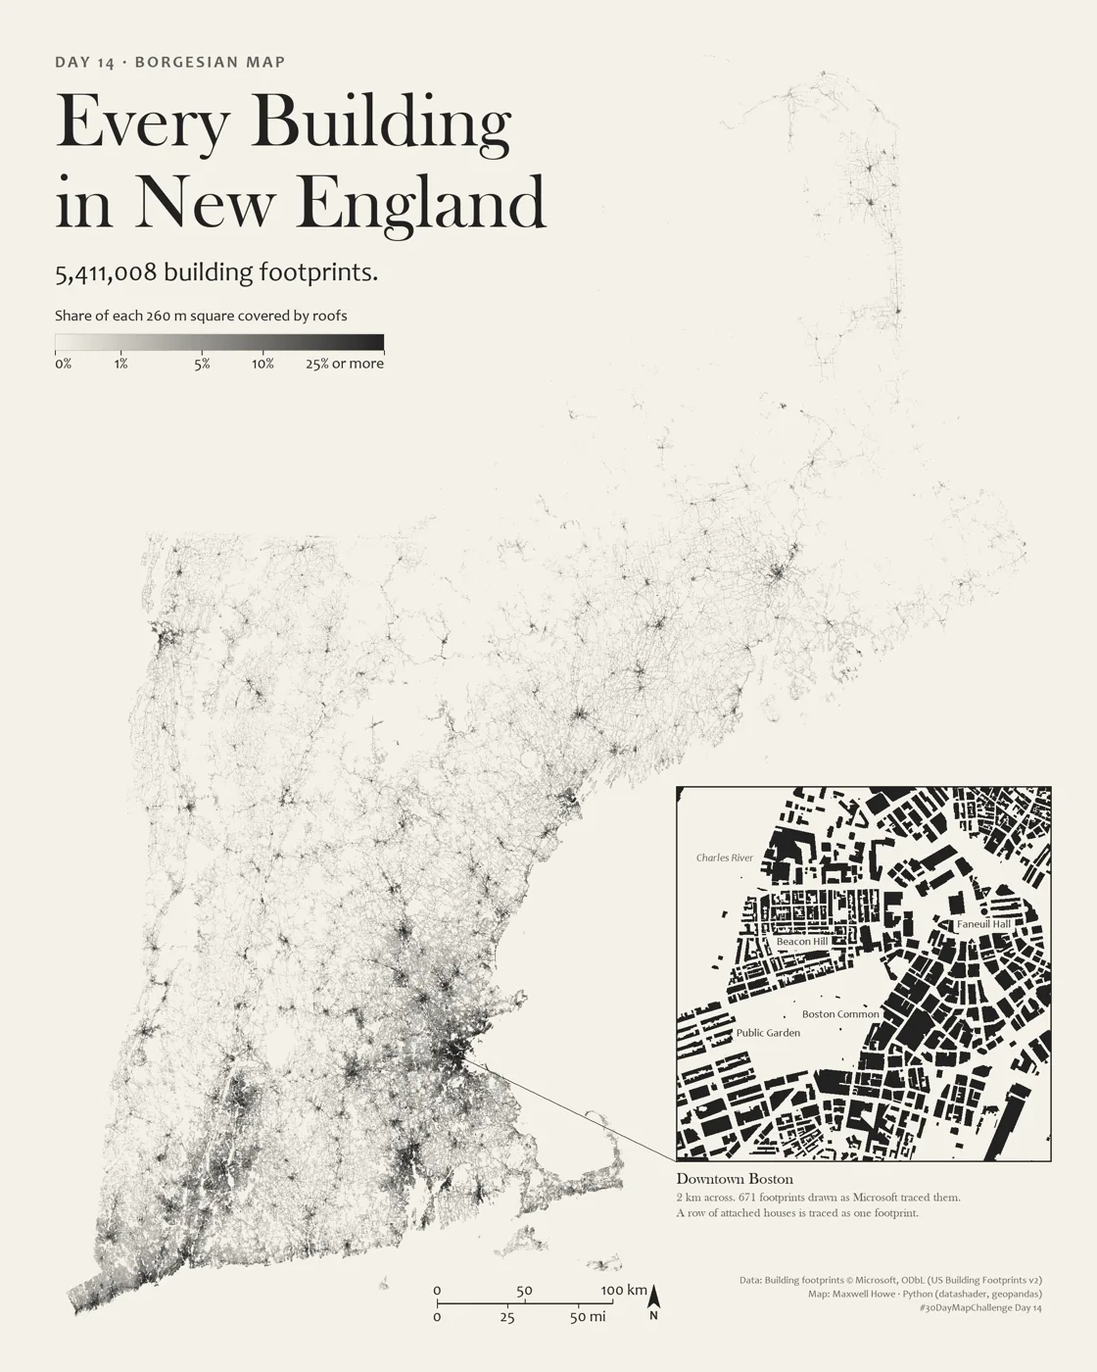
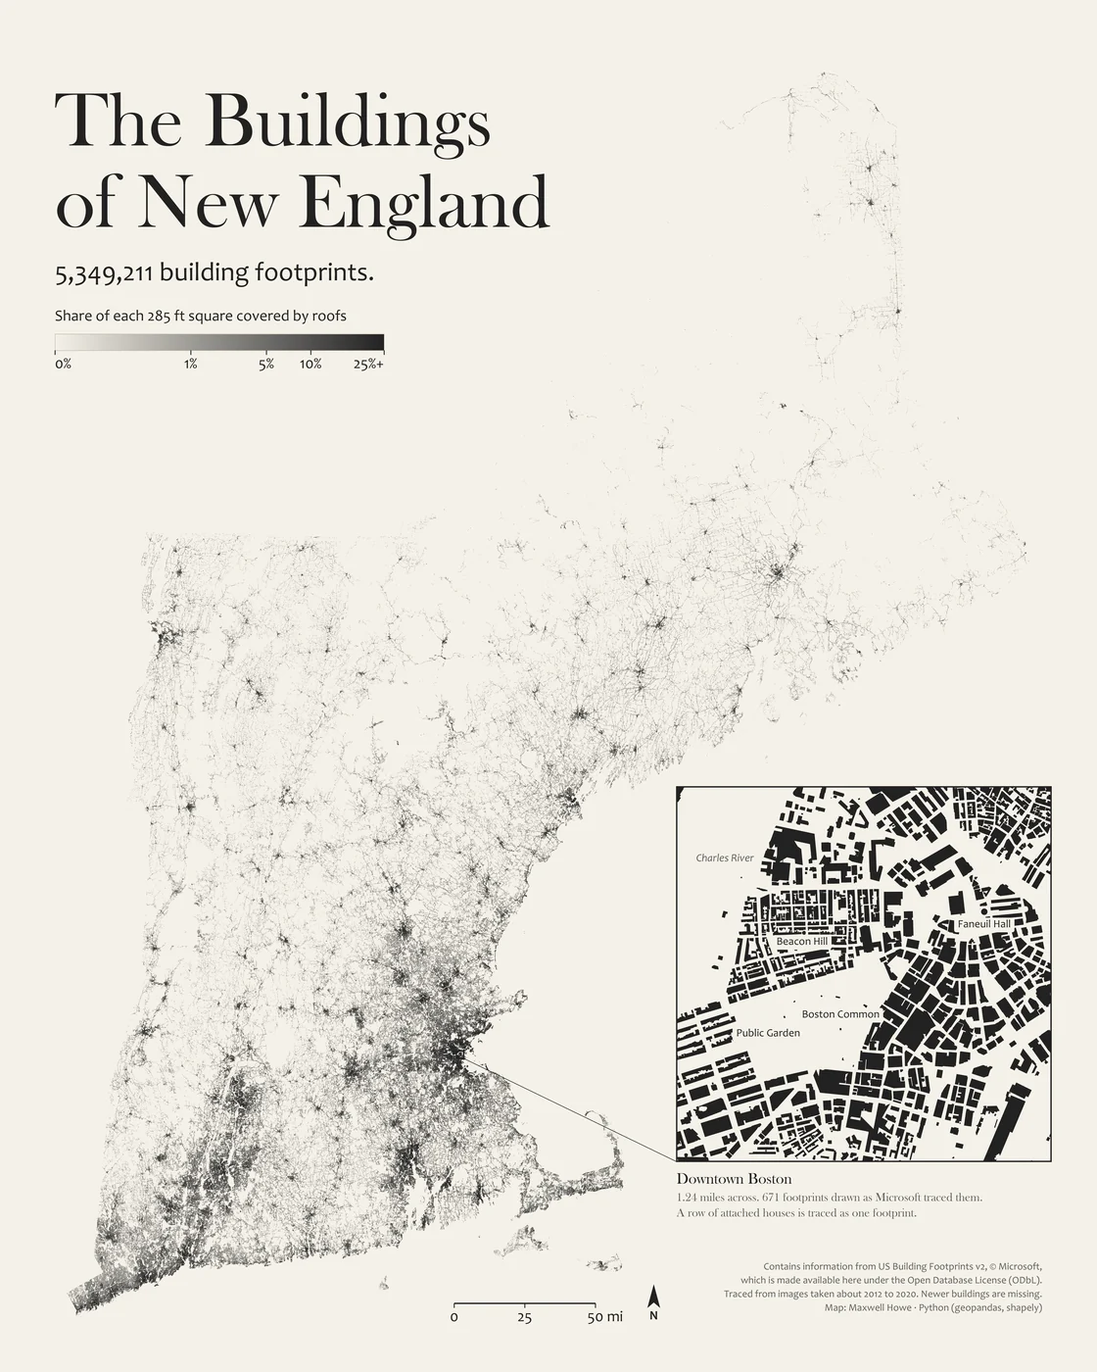
30 Day Maps: use the print versions of days 2, 3, 8, 14 and 21, add day 24

diff --git a/src/portfolio/maps.html b/src/portfolio/maps.html
@@ -4,7 +4,7 @@
     <meta charset="UTF-8">
     <meta name="viewport" content="width=device-width, initial-scale=1.0">
     <title>30 Day Map Challenge 2026 — Maxwell Howe</title>
-    <meta name="description" content="Maxwell Howe’s maps for the 2026 30 Day Map Challenge: lighthouses, rivers, town charters, shipwrecks, foliage, railroads, pizza, a fantasy T map, traffic lights, sunsets, the drowned Quabbin towns, cows, snowfall, street names, and place names across New England.">
+    <meta name="description" content="Maxwell Howe’s maps for the 2026 30 Day Map Challenge: lighthouses, rivers, town charters, shipwrecks, foliage, railroads, pizza, a fantasy T map, traffic lights, sunsets, the drowned Quabbin towns, cows, snowfall, street names, drive times, and place names across New England.">
     <link rel="icon" href="favicon.svg" type="image/svg+xml">
     <link rel="icon" href="/favicon.ico" sizes="32x32">
     <link rel="apple-touch-icon" href="/apple-touch-icon.png">
@@ -28,7 +28,7 @@
         <header class="page-head">
             <div class="kicker">November 2026 · in progress</div>
             <h1>30 Day Map Challenge</h1>
-            <p class="lede">One map a day for November, each on a set theme. I’m keeping mine in New England. 19 of 30 are finished as of November 20, and I skipped Days 10 and 16. Click any map for the full-size version.</p>
+            <p class="lede">One map a day for November, each on a set theme. I’m keeping mine in New England. 20 of 30 are on this page, and I skipped Days 10 and 16. Click any map for the full-size version.</p>
             <hr class="tick-rule">
         </header>
 
@@ -58,7 +58,7 @@
                 <li><a class="day-cell" href="#day-21"><b>21</b>OpenStreetMap</a></li>
                 <li><span class="day-cell"><b>22</b>Projections</span></li>
                 <li><span class="day-cell"><b>23</b>Senses: Taste</span></li>
-                <li><span class="day-cell"><b>24</b>Network</span></li>
+                <li><a class="day-cell" href="#day-24"><b>24</b>Network</a></li>
                 <li><span class="day-cell"><b>25</b>Is this a map?</span></li>
                 <li><span class="day-cell"><b>26</b>Water</span></li>
                 <li><span class="day-cell"><b>27</b>New tool</span></li>
@@ -80,8 +80,8 @@
             <div class="kicker">Day 2 · Lines</div>
             <h2>New England’s Rivers and Where They Drain</h2>
             <figure><a href="/images/30-day-maps/day02-full.webp"><img src="/images/30-day-maps/day02.webp" alt="Map: New England’s Rivers and Where They Drain" loading="lazy" decoding="async"></a></figure>
-            <p>Every stream of Strahler order 3 and up, colored by the river system it belongs to. The 12 biggest networks get a color each, and about 130 small coastal streams share one pale blue. Line width follows stream order. The Saint John and Champlain networks cross into Canada before they reach the sea.</p>
-            <p class="map-credit">Data: NHDPlus V2.1 (U.S. EPA and USGS), Terrain Tiles, Natural Earth, US Census Bureau<br>Made with: RustGIS, Python, Illustrator</p>
+            <p>Every stream of Strahler order 3 and up, colored by the river system it belongs to. The biggest networks get a color each, and everything else that reaches the Atlantic, the Hudson included, shares one pale blue. Line width follows stream order. The Saint John, Champlain and St. Francis networks cross into Canada before they reach the sea.</p>
+            <p class="map-credit">Data: NHDPlus V2.1 (U.S. EPA and USGS), Terrain Tiles, Natural Earth, US Census Bureau, OpenStreetMap contributors (ODbL)<br>Made with: RustGIS, Python, Illustrator</p>
         </article>
 
         <article class="map-entry" id="day-03">
@@ -89,7 +89,7 @@
             <h2>New England’s Towns and the Year Each Began</h2>
             <figure><a href="/images/30-day-maps/day03-full.webp"><img src="/images/30-day-maps/day03.webp" alt="Map: New England’s Towns and the Year Each Began" loading="lazy" decoding="async"></a></figure>
             <p>1,522 towns and cities colored by the year each was first chartered or incorporated. Blue towns came before the Revolution and red ones after. Gold is 1760 to 1789, when most of Vermont was chartered. The 81 grey areas are townships and gores that never incorporated. A commenter caught Providence showing its 1832 city charter, so I checked every date against a second source and fixed the ones using the wrong definition.</p>
-            <p class="map-credit">Data: US Census TIGER/Line 2025, Wikipedia municipality lists (CC BY-SA), Vermont charter records<br>Made with: Python, Illustrator</p>
+            <p class="map-credit">Data: US Census TIGER/Line 2025, Wikipedia municipality lists (CC BY-SA), Vermont charter records, OpenStreetMap contributors (ODbL)<br>Made with: Python, Illustrator</p>
         </article>
 
         <article class="map-entry" id="day-04">
@@ -128,8 +128,8 @@
             <div class="kicker">Day 8 · Utopia</div>
             <h2>Boston’s Rapid Transit</h2>
             <figure><a href="/images/30-day-maps/day08-full.webp"><img src="/images/30-day-maps/day08.webp" alt="Map: Boston’s Rapid Transit" loading="lazy" decoding="async"></a></figure>
-            <p>My fantasy Boston subway map, drawn like the posters on station walls. A four-track tunnel I call The BIGGER Dig joins North Station and South Station at a new Boston Central. The map has 8 rapid transit lines, 227 stops, 11 commuter rail lines and 14 ferry routes, about 140 new miles in all. My rough total is $125 billion, five times what the original Big Dig cost in 2026 dollars. It is a fan map and has nothing to do with the MBTA.</p>
-            <p class="map-credit">Data: MBTA V3 API, OpenStreetMap contributors (ODbL), US Census TIGER/Line<br>Made with: Python (matplotlib, geopandas), Illustrator</p>
+            <p>My fantasy Boston subway map, drawn like the posters on station walls. A four-track tunnel I call The BIGGER Dig joins North Station and South Station at a new Boston Central. The map has 8 rapid transit lines, more than 220 stops, 11 commuter rail lines and 14 ferry routes. NERTA is an agency I made up. This is a fan map and has nothing to do with the MBTA.</p>
+            <p class="map-credit">Data: MBTA V3 API, OpenStreetMap contributors (ODbL), US Census TIGER/Line<br>Made with: Python (matplotlib, geopandas)</p>
         </article>
 
         <article class="map-entry portrait" id="day-09">
@@ -166,10 +166,10 @@
 
         <article class="map-entry portrait" id="day-14">
             <div class="kicker">Day 14 · Borgesian map</div>
-            <h2>Every Building in New England</h2>
-            <figure><a href="/images/30-day-maps/day14-full.webp"><img src="/images/30-day-maps/day14.webp" alt="Map: Every Building in New England" loading="lazy" decoding="async"></a></figure>
-            <p>5,411,008 building footprints, and all of them are on the page. Each 260 meter square is shaded by the share of it covered by roofs. The inset is downtown Boston at full detail. The theme comes from Borges’s one-paragraph story about a map drawn at the same size as the empire.</p>
-            <p class="map-credit">Data: Building footprints © Microsoft (ODbL)<br>Made with: Python (datashader, geopandas)</p>
+            <h2>The Buildings of New England</h2>
+            <figure><a href="/images/30-day-maps/day14-full.webp"><img src="/images/30-day-maps/day14.webp" alt="Map: The Buildings of New England" loading="lazy" decoding="async"></a></figure>
+            <p>5,349,211 building footprints. Each 285-foot square is shaded by the share of it covered by roofs. They were traced from images taken about 2012 to 2020, so newer buildings are missing. An earlier version said 5,411,008, which counted some buildings twice and a few thousand outside New England. The inset is downtown Boston at full detail. The theme comes from Borges’s one-paragraph story about a map drawn at the same size as the empire.</p>
+            <p class="map-credit">Data: US Building Footprints v2 © Microsoft (ODbL)<br>Made with: Python (geopandas, shapely)</p>
         </article>
 
         <article class="map-entry portrait" id="day-15">
@@ -216,8 +216,16 @@
             <div class="kicker">Day 21 · OpenStreetMap</div>
             <h2>Every Street Suffix in New England</h2>
             <figure><a href="/images/30-day-maps/day21-full.webp"><img src="/images/30-day-maps/day21.webp" alt="Poster: Every Street Suffix in New England, with a box chart of street endings, a state-by-state table, and ten unusual towns" loading="lazy" decoding="async"></a></figure>
-            <p>All 338,291 named streets in New England’s OpenStreetMap, sorted by the last word of the name. Road is first with 99,329, then Street, Lane, Drive, Way and Avenue, which together make up 87% of them. The rest is the fun part: 37 streets end in Rotary, 36 of them in Massachusetts, and at least 342 Maine streets are still named Fire Road plus a number. Counts are checked against the US Census Bureau’s 2024 road list.</p>
-            <p class="map-credit">Data: OpenStreetMap contributors (ODbL), extract of November 17, 2026; US Census Bureau TIGER/Line 2024<br>Made with: Python (pyosmium, geopandas, matplotlib)</p>
+            <p>All 345,768 named streets in New England’s OpenStreetMap, sorted by the last word of the name. Road is first with 102,515, then Street, Lane, Drive, Avenue and Way, which together make up 86% of them. The rest is the fun part: 49 streets end in Rotary, 48 of them in Massachusetts, and at least 371 Maine streets are still named Fire Road plus a number. Counts are checked against the US Census Bureau’s 2024 road list.</p>
+            <p class="map-credit">Data: OpenStreetMap contributors (ODbL), extract of November 17, 2026; US Census Bureau TIGER/Line 2024; NH Department of Transportation<br>Made with: Python (pyosmium, geopandas, matplotlib)</p>
+        </article>
+
+        <article class="map-entry portrait" id="day-24">
+            <div class="kicker">Day 24 · Network</div>
+            <h2>Drive Time from Boston</h2>
+            <figure><a href="/images/30-day-maps/day24-full.webp"><img src="/images/30-day-maps/day24.webp" alt="Map: Drive Time from Boston" loading="lazy" decoding="async"></a></figure>
+            <p>How long it takes to drive from the Massachusetts State House to every part of New England, with no traffic. One color for every 15 minutes, and 66 cities and towns listed in order. Provincetown (2 h 23) is a longer drive than Portland, Maine (1 h 49). Madawaska, Maine is 7 h 23. The listed times were compared with a second routing engine, which puts 26 of 67 in a different 15-minute band, so read them as estimates.</p>
+            <p class="map-credit">Data: OpenStreetMap contributors (ODbL), US Census Bureau, Natural Earth<br>Made with: Python (geopandas, matplotlib), OSRM, Valhalla</p>
         </article>
 
         <section class="section-tight">

diff --git a/30-day-maps/index.html b/30-day-maps/index.html
@@ -39,7 +39,7 @@
         <header class="page-head">
             <div class="kicker">November 2026 · in progress</div>
             <h1>30 Day Map Challenge</h1>
-            <p class="lede">One map a day for November, each on a set theme. I’m keeping mine in New England. 19 of 30 are finished as of November 20, and I skipped Days 10 and 16. Click any map for the full-size version.</p>
+            <p class="lede">One map a day for November, each on a set theme. I’m keeping mine in New England. 20 of 30 are on this page, and I skipped Days 10 and 16. Click any map for the full-size version.</p>
             <hr class="tick-rule">
         </header>
 
@@ -69,7 +69,7 @@
                 <li><a class="day-cell" href="#day-21"><b>21</b>OpenStreetMap</a></li>
                 <li><span class="day-cell"><b>22</b>Projections</span></li>
                 <li><span class="day-cell"><b>23</b>Senses: Taste</span></li>
-                <li><span class="day-cell"><b>24</b>Network</span></li>
+                <li><a class="day-cell" href="#day-24"><b>24</b>Network</a></li>
                 <li><span class="day-cell"><b>25</b>Is this a map?</span></li>
                 <li><span class="day-cell"><b>26</b>Water</span></li>
                 <li><span class="day-cell"><b>27</b>New tool</span></li>
@@ -91,8 +91,8 @@
             <div class="kicker">Day 2 · Lines</div>
             <h2>New England’s Rivers and Where They Drain</h2>
             <figure><a href="/images/30-day-maps/day02-full.webp"><img src="/images/30-day-maps/day02.webp" alt="Map: New England’s Rivers and Where They Drain" loading="lazy" decoding="async"></a></figure>
-            <p>Every stream of Strahler order 3 and up, colored by the river system it belongs to. The 12 biggest networks get a color each, and about 130 small coastal streams share one pale blue. Line width follows stream order. The Saint John and Champlain networks cross into Canada before they reach the sea.</p>
-            <p class="map-credit">Data: NHDPlus V2.1 (U.S. EPA and USGS), Terrain Tiles, Natural Earth, US Census Bureau<br>Made with: RustGIS, Python, Illustrator</p>
+            <p>Every stream of Strahler order 3 and up, colored by the river system it belongs to. The biggest networks get a color each, and everything else that reaches the Atlantic, the Hudson included, shares one pale blue. Line width follows stream order. The Saint John, Champlain and St. Francis networks cross into Canada before they reach the sea.</p>
+            <p class="map-credit">Data: NHDPlus V2.1 (U.S. EPA and USGS), Terrain Tiles, Natural Earth, US Census Bureau, OpenStreetMap contributors (ODbL)<br>Made with: RustGIS, Python, Illustrator</p>
         </article>
 
         <article class="map-entry" id="day-03">
@@ -100,7 +100,7 @@
             <h2>New England’s Towns and the Year Each Began</h2>
             <figure><a href="/images/30-day-maps/day03-full.webp"><img src="/images/30-day-maps/day03.webp" alt="Map: New England’s Towns and the Year Each Began" loading="lazy" decoding="async"></a></figure>
             <p>1,522 towns and cities colored by the year each was first chartered or incorporated. Blue towns came before the Revolution and red ones after. Gold is 1760 to 1789, when most of Vermont was chartered. The 81 grey areas are townships and gores that never incorporated. A commenter caught Providence showing its 1832 city charter, so I checked every date against a second source and fixed the ones using the wrong definition.</p>
-            <p class="map-credit">Data: US Census TIGER/Line 2025, Wikipedia municipality lists (CC BY-SA), Vermont charter records<br>Made with: Python, Illustrator</p>
+            <p class="map-credit">Data: US Census TIGER/Line 2025, Wikipedia municipality lists (CC BY-SA), Vermont charter records, OpenStreetMap contributors (ODbL)<br>Made with: Python, Illustrator</p>
         </article>
 
         <article class="map-entry" id="day-04">
@@ -139,8 +139,8 @@
             <div class="kicker">Day 8 · Utopia</div>
             <h2>Boston’s Rapid Transit</h2>
             <figure><a href="/images/30-day-maps/day08-full.webp"><img src="/images/30-day-maps/day08.webp" alt="Map: Boston’s Rapid Transit" loading="lazy" decoding="async"></a></figure>
-            <p>My fantasy Boston subway map, drawn like the posters on station walls. A four-track tunnel I call The BIGGER Dig joins North Station and South Station at a new Boston Central. The map has 8 rapid transit lines, 227 stops, 11 commuter rail lines and 14 ferry routes, about 140 new miles in all. My rough total is $125 billion, five times what the original Big Dig cost in 2026 dollars. It is a fan map and has nothing to do with the MBTA.</p>
-            <p class="map-credit">Data: MBTA V3 API, OpenStreetMap contributors (ODbL), US Census TIGER/Line<br>Made with: Python (matplotlib, geopandas), Illustrator</p>
+            <p>My fantasy Boston subway map, drawn like the posters on station walls. A four-track tunnel I call The BIGGER Dig joins North Station and South Station at a new Boston Central. The map has 8 rapid transit lines, more than 220 stops, 11 commuter rail lines and 14 ferry routes. NERTA is an agency I made up. This is a fan map and has nothing to do with the MBTA.</p>
+            <p class="map-credit">Data: MBTA V3 API, OpenStreetMap contributors (ODbL), US Census TIGER/Line<br>Made with: Python (matplotlib, geopandas)</p>
         </article>
 
         <article class="map-entry portrait" id="day-09">
@@ -177,10 +177,10 @@
 
         <article class="map-entry portrait" id="day-14">
             <div class="kicker">Day 14 · Borgesian map</div>
-            <h2>Every Building in New England</h2>
-            <figure><a href="/images/30-day-maps/day14-full.webp"><img src="/images/30-day-maps/day14.webp" alt="Map: Every Building in New England" loading="lazy" decoding="async"></a></figure>
-            <p>5,411,008 building footprints, and all of them are on the page. Each 260 meter square is shaded by the share of it covered by roofs. The inset is downtown Boston at full detail. The theme comes from Borges’s one-paragraph story about a map drawn at the same size as the empire.</p>
-            <p class="map-credit">Data: Building footprints © Microsoft (ODbL)<br>Made with: Python (datashader, geopandas)</p>
+            <h2>The Buildings of New England</h2>
+            <figure><a href="/images/30-day-maps/day14-full.webp"><img src="/images/30-day-maps/day14.webp" alt="Map: The Buildings of New England" loading="lazy" decoding="async"></a></figure>
+            <p>5,349,211 building footprints. Each 285-foot square is shaded by the share of it covered by roofs. They were traced from images taken about 2012 to 2020, so newer buildings are missing. An earlier version said 5,411,008, which counted some buildings twice and a few thousand outside New England. The inset is downtown Boston at full detail. The theme comes from Borges’s one-paragraph story about a map drawn at the same size as the empire.</p>
+            <p class="map-credit">Data: US Building Footprints v2 © Microsoft (ODbL)<br>Made with: Python (geopandas, shapely)</p>
         </article>
 
         <article class="map-entry portrait" id="day-15">
@@ -227,8 +227,16 @@
             <div class="kicker">Day 21 · OpenStreetMap</div>
             <h2>Every Street Suffix in New England</h2>
             <figure><a href="/images/30-day-maps/day21-full.webp"><img src="/images/30-day-maps/day21.webp" alt="Poster: Every Street Suffix in New England, with a box chart of street endings, a state-by-state table, and ten unusual towns" loading="lazy" decoding="async"></a></figure>
-            <p>All 338,291 named streets in New England’s OpenStreetMap, sorted by the last word of the name. Road is first with 99,329, then Street, Lane, Drive, Way and Avenue, which together make up 87% of them. The rest is the fun part: 37 streets end in Rotary, 36 of them in Massachusetts, and at least 342 Maine streets are still named Fire Road plus a number. Counts are checked against the US Census Bureau’s 2024 road list.</p>
-            <p class="map-credit">Data: OpenStreetMap contributors (ODbL), extract of November 17, 2026; US Census Bureau TIGER/Line 2024<br>Made with: Python (pyosmium, geopandas, matplotlib)</p>
+            <p>All 345,768 named streets in New England’s OpenStreetMap, sorted by the last word of the name. Road is first with 102,515, then Street, Lane, Drive, Avenue and Way, which together make up 86% of them. The rest is the fun part: 49 streets end in Rotary, 48 of them in Massachusetts, and at least 371 Maine streets are still named Fire Road plus a number. Counts are checked against the US Census Bureau’s 2024 road list.</p>
+            <p class="map-credit">Data: OpenStreetMap contributors (ODbL), extract of November 17, 2026; US Census Bureau TIGER/Line 2024; NH Department of Transportation<br>Made with: Python (pyosmium, geopandas, matplotlib)</p>
+        </article>
+
+        <article class="map-entry portrait" id="day-24">
+            <div class="kicker">Day 24 · Network</div>
+            <h2>Drive Time from Boston</h2>
+            <figure><a href="/images/30-day-maps/day24-full.webp"><img src="/images/30-day-maps/day24.webp" alt="Map: Drive Time from Boston" loading="lazy" decoding="async"></a></figure>
+            <p>How long it takes to drive from the Massachusetts State House to every part of New England, with no traffic. One color for every 15 minutes, and 66 cities and towns listed in order. Provincetown (2 h 23) is a longer drive than Portland, Maine (1 h 49). Madawaska, Maine is 7 h 23. The listed times were compared with a second routing engine, which puts 26 of 67 in a different 15-minute band, so read them as estimates.</p>
+            <p class="map-credit">Data: OpenStreetMap contributors (ODbL), US Census Bureau, Natural Earth<br>Made with: Python (geopandas, matplotlib), OSRM, Valhalla</p>
         </article>
 
         <section class="section-tight">

diff --git a/index.html b/index.html
@@ -52,7 +52,7 @@
     <div class="container">
         <section class="section-tight now-strip" aria-labelledby="now-heading">
             <h2 id="now-heading">Now</h2>
-            <div class="building-strip" id="buildingStrip"><a class="building-pill" href="/30-day-maps/"><span class="dot dot-live"></span>30 Day Map Challenge: 19 of 30 done</a><a class="building-pill" href="/drives/"><span class="dot dot-live"></span>Optimal Drives: about 50 routing videos</a><a class="building-pill" href="/about/"><span class="dot dot-dev"></span>Teaching stats at Lynn English, year four</a></div>
+            <div class="building-strip" id="buildingStrip"><a class="building-pill" href="/30-day-maps/"><span class="dot dot-live"></span>30 Day Map Challenge: 20 of 30 done</a><a class="building-pill" href="/drives/"><span class="dot dot-live"></span>Optimal Drives: about 50 routing videos</a><a class="building-pill" href="/about/"><span class="dot dot-dev"></span>Teaching stats at Lynn English, year four</a></div>
         </section>
 
         <hr class="scalebar">
@@ -69,7 +69,7 @@
                     </div>
                     <div class="feature-body">
                         <h3>30 Day Map Challenge</h3>
-                        <p>A map a day through November, all New England. Nineteen done so far, including every lighthouse in Massachusetts, 1911 railroads, a fantasy T map, 72 rotaries, all 5.4 million buildings, and a 3D map of New England's cows.</p>
+                        <p>A map a day through November, all New England. Twenty done so far, including every lighthouse in Massachusetts, 1911 railroads, a fantasy T map, 72 rotaries, 5.3 million buildings, and a 3D map of New England's cows.</p>
                     </div>
                 </a>
                 <a class="feature" href="/drives/">

diff --git a/src/portfolio/index.html b/src/portfolio/index.html
@@ -58,7 +58,7 @@
                     </div>
                     <div class="feature-body">
                         <h3>30 Day Map Challenge</h3>
-                        <p>A map a day through November, all New England. Nineteen done so far, including every lighthouse in Massachusetts, 1911 railroads, a fantasy T map, 72 rotaries, all 5.4 million buildings, and a 3D map of New England's cows.</p>
+                        <p>A map a day through November, all New England. Twenty done so far, including every lighthouse in Massachusetts, 1911 railroads, a fantasy T map, 72 rotaries, 5.3 million buildings, and a 3D map of New England's cows.</p>
                     </div>
                 </a>
                 <a class="feature" href="/drives/">

diff --git a/assets/portfolio/js/page-home.js b/assets/portfolio/js/page-home.js
@@ -6,7 +6,7 @@
 
     // What is actually on the desk this month. Keep it to two or three.
     var BUILDING = [
-        { label: '30 Day Map Challenge: 19 of 30 done', href: '/30-day-maps/', state: 'live' },
+        { label: '30 Day Map Challenge: 20 of 30 done', href: '/30-day-maps/', state: 'live' },
         { label: 'Optimal Drives: about 50 routing videos', href: '/drives/', state: 'live' },
         { label: 'Teaching stats at Lynn English, year four', href: '/about/', state: 'dev' }
     ];

diff --git a/src/portfolio/js/page-home.js b/src/portfolio/js/page-home.js
@@ -6,7 +6,7 @@
 
     // What is actually on the desk this month. Keep it to two or three.
     var BUILDING = [
-        { label: '30 Day Map Challenge: 19 of 30 done', href: '/30-day-maps/', state: 'live' },
+        { label: '30 Day Map Challenge: 20 of 30 done', href: '/30-day-maps/', state: 'live' },
         { label: 'Optimal Drives: about 50 routing videos', href: '/drives/', state: 'live' },
         { label: 'Teaching stats at Lynn English, year four', href: '/about/', state: 'dev' }
     ];
